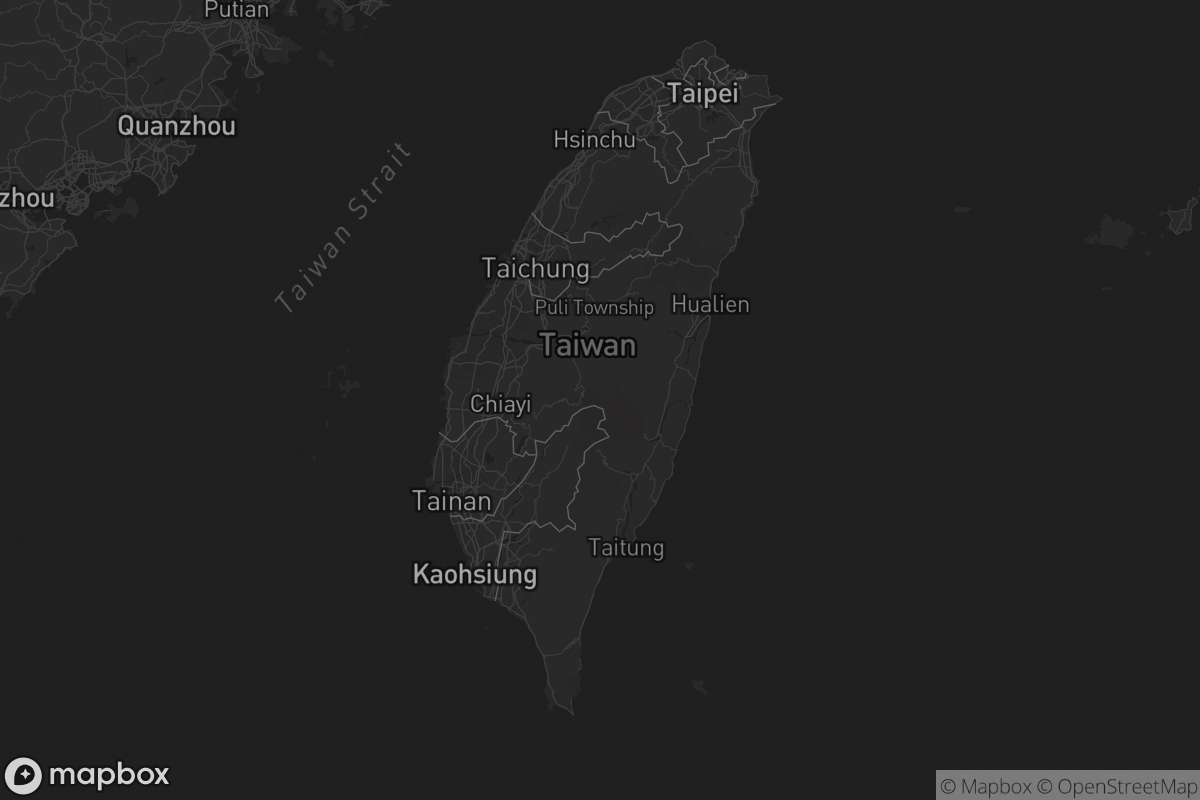
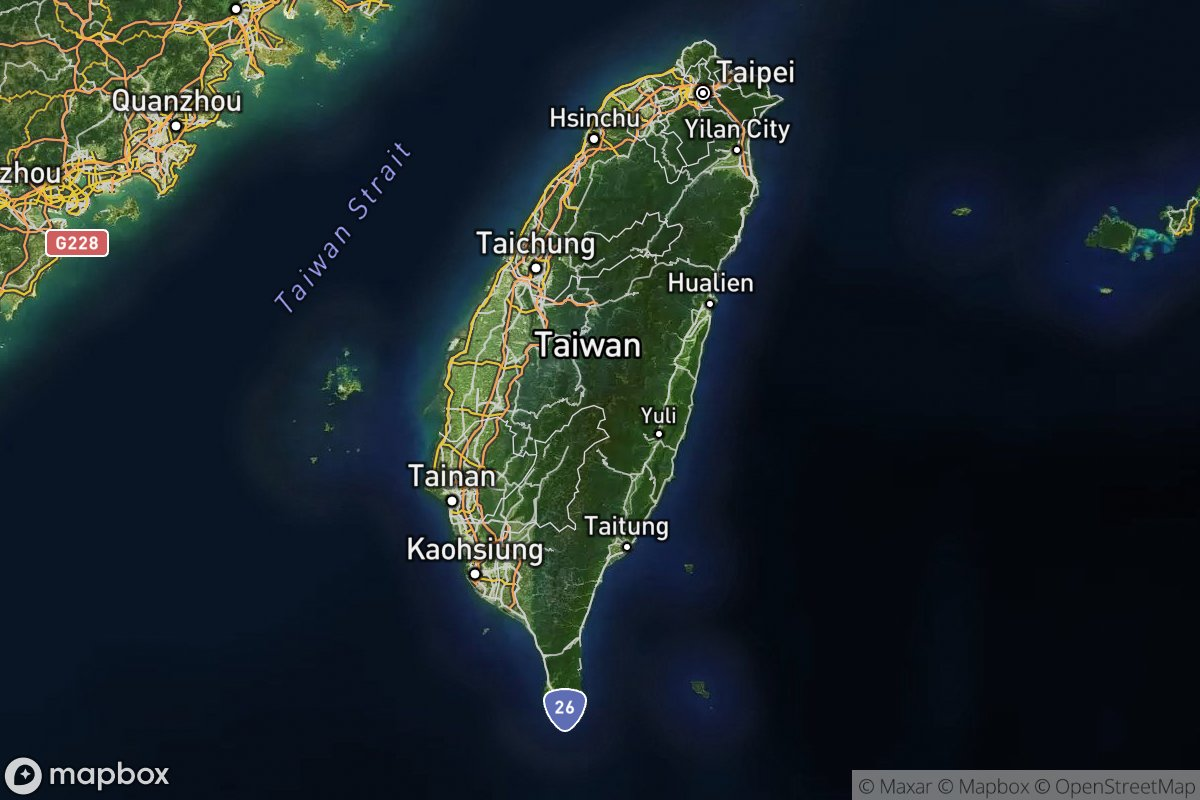
fix: ビジュアル全面修正 - タイトル・キャラ・地図・字幕・動的尺
## タイトルカード
- チャンネル名バッジ「テクノロジー投資 × 地政学」追加
- フォントサイズ 4% → 5.5% (76px → 105px)
- 暗幕オーバーレイ＋下部アクセントラインアニメーション
- typewriter: frame 0 で最低3文字を即時表示

## キャラクター
- サイズ 38% → 52% (410px → 562px) で存在感UP

## 字幕
- フォント 36px → 42px、常に白色
- 背景 rgba(0,0,0,0.82)、左ボーダー（話者色）で統一

## 地図オーバーレイ
- Mapbox スタイル dark-v11 → satellite-streets-v12（衛星写真）
- filter: brightness(1.25) contrast(1.08) で鮮明化
- border: rgba(255,255,255,0.45) + アクセントカラー glow

## 動的動画尺（Root.tsx）
- 固定 1800f → calcDuration() でスクリプトから自動計算
- 今回: 2142f (71.4秒)

## script-input.json
- 全チャプターにセリフ追加（2行 → 16行）
- visual.at をチャプター実尺に合わせ修正
- 音声 16本再生成（VOICEVOX）

diff --git a/packages/tech-geopolitics-channel/src/compositions/MainVideo.tsx b/packages/tech-geopolitics-channel/src/compositions/MainVideo.tsx
@@ -97,9 +97,9 @@ export const MainVideo: React.FC<MainVideoProps> = ({ scriptInput }) => {
     return (
       <>
         <MetanStage emotion={currentLine?.speaker === 'metan' ? currentLine.emotion : 'normal'}
-          isSpeaking={isSpeakingMetan} startFrame={0} position="left" height={height * 0.38} />
+          isSpeaking={isSpeakingMetan} startFrame={0} position="left" height={height * 0.52} />
         <ZundamonStage emotion={currentLine?.speaker === 'zundamon' ? currentLine.emotion : 'normal'}
-          isSpeaking={isSpeakingZunda} startFrame={0} position="right" height={height * 0.38} />
+          isSpeaking={isSpeakingZunda} startFrame={0} position="right" height={height * 0.52} />
       </>
     );
   };
@@ -123,17 +123,18 @@ export const MainVideo: React.FC<MainVideoProps> = ({ scriptInput }) => {
       }}>
         <div style={{
           display: 'inline-block',
-          backgroundColor: variation.subtitleStyle === 'bottom-bar'
-            ? 'rgba(0,0,0,0.75)' : 'transparent',
-          padding: '8px 24px',
-          borderRadius: 8,
-          borderLeft: variation.subtitleStyle === 'cinematic' ? `4px solid ${speakerColor}` : 'none',
+          backgroundColor: 'rgba(0,0,0,0.82)',
+          padding: '12px 32px',
+          borderRadius: 10,
+          borderLeft: `5px solid ${speakerColor}`,
         }}>
           <span style={{
-            color: theme.text,
-            fontSize: 36,
+            color: '#ffffff',
+            fontSize: 42,
             fontWeight: 700,
-            textShadow: '-2px -2px 0 #000, 2px -2px 0 #000, -2px 2px 0 #000, 2px 2px 0 #000',
+            lineHeight: 1.5,
+            letterSpacing: '0.02em',
+            textShadow: '0 2px 8px rgba(0,0,0,0.8)',
           }}>
             {currentLine.text}
           </span>
@@ -340,15 +341,48 @@ export const MainVideo: React.FC<MainVideoProps> = ({ scriptInput }) => {
       {/* 背景 */}
       <BackgroundRenderer type={variation.background} theme={theme} />
 
-      {/* タイトル（冒頭） */}
+      {/* タイトルカード（冒頭2秒） */}
       {showTitle && (
-        <TitleAnimation
-          title={scriptInput.title}
-          style={variation.titleStyle}
-          startFrame={0}
-          color={theme.text}
-          fontSize={Math.floor(width * 0.04)}
-        />
+        <>
+          {/* 暗幕オーバーレイ */}
+          <div style={{
+            position: 'absolute', inset: 0,
+            background: 'linear-gradient(180deg, rgba(0,0,0,0.55) 0%, rgba(0,0,0,0.35) 50%, rgba(0,0,0,0.65) 100%)',
+            zIndex: 15,
+          }} />
+          {/* チャンネル名バッジ */}
+          <div style={{
+            position: 'absolute', top: '28%', left: '50%',
+            transform: 'translateX(-50%)',
+            zIndex: 21,
+            backgroundColor: 'rgba(255,255,255,0.12)',
+            border: '1px solid rgba(255,255,255,0.3)',
+            borderRadius: 999,
+            padding: '6px 28px',
+          }}>
+            <span style={{ color: 'rgba(255,255,255,0.85)', fontSize: 26, fontWeight: 600, letterSpacing: '0.15em' }}>
+              テクノロジー投資 × 地政学
+            </span>
+          </div>
+          {/* メインタイトル */}
+          <TitleAnimation
+            title={scriptInput.title}
+            style={variation.titleStyle}
+            startFrame={0}
+            color="#ffffff"
+            fontSize={Math.floor(width * 0.055)}
+          />
+          {/* 下部アクセントライン */}
+          <div style={{
+            position: 'absolute', bottom: '30%', left: '50%',
+            transform: 'translateX(-50%)',
+            zIndex: 21,
+            width: interpolate(frame, [0, fps * 1.5], [0, 320], { extrapolateRight: 'clamp' }),
+            height: 3,
+            backgroundColor: theme.accent !== theme.background ? theme.accent : '#4a9eff',
+            borderRadius: 2,
+          }} />
+        </>
       )}
 
       {/* キャラクター */}

diff --git a/packages/tech-geopolitics-channel/src/Root.tsx b/packages/tech-geopolitics-channel/src/Root.tsx
@@ -1,23 +1,39 @@
 import React from "react";
 import { Composition } from "remotion";
 import { MainVideo } from "./compositions/MainVideo";
+import { ScriptInput } from "./utils/types";
 // script-input.json を直接 import → 編集するたびに自動反映
 import scriptInput from "../input/script-input.json";
 
+const FPS = 30;
+const TITLE_FRAMES = FPS * 2; // 冒頭タイトル 2秒
+const TAIL_FRAMES = FPS * 1;  // 末尾余白 1秒
+
+/** スクリプトから総フレーム数を計算 */
+function calcDuration(s: ScriptInput): number {
+  const contentFrames = s.chapters.reduce((total, ch) =>
+    total + ch.lines.reduce((t, l) => t + (l.frameCount ?? FPS * 3), 0), 0
+  );
+  return TITLE_FRAMES + contentFrames + TAIL_FRAMES;
+}
+
 export const RemotionRoot: React.FC = () => {
+  // eslint-disable-next-line @typescript-eslint/no-explicit-any
+  const typedInput = scriptInput as any as ScriptInput;
+  const duration = calcDuration(typedInput);
+
   return (
     <>
       <Composition
         id="MainVideo"
         // eslint-disable-next-line @typescript-eslint/no-explicit-any
         component={MainVideo as any}
-        durationInFrames={1800}
-        fps={30}
+        durationInFrames={duration}
+        fps={FPS}
         width={1920}
         height={1080}
         defaultProps={{
-          // eslint-disable-next-line @typescript-eslint/no-explicit-any
-          scriptInput: scriptInput as any,
+          scriptInput: typedInput,
         }}
       />
     </>

diff --git a/packages/tech-geopolitics-channel/src/components/TitleAnimation.tsx b/packages/tech-geopolitics-channel/src/components/TitleAnimation.tsx
@@ -51,11 +51,17 @@ export const TitleAnimation: React.FC<TitleAnimationProps> = ({
 
       // ---- typewriter: 1文字ずつ表示 ----
       case 'typewriter': {
-        const chars = Math.floor(interpolate(localFrame, [0, title.length * 3], [0, title.length], { extrapolateRight: 'clamp' }));
-        const displayText = title.slice(0, chars);
+        // 最初の3フレームで冒頭3文字を表示し、その後1文字ずつ追加
+        const minChars = 3;
+        const chars = Math.max(
+          minChars,
+          Math.floor(interpolate(localFrame, [0, title.length * 3], [0, title.length], { extrapolateRight: 'clamp' }))
+        );
+        const displayText = title.slice(0, Math.min(chars, title.length));
+        const showCursor = chars < title.length;
         return (
           <div style={{ opacity: 1 }}>
-            <TitleText title={displayText + (chars < title.length ? '|' : '')} color={color} fontSize={fontSize} />
+            <TitleText title={displayText + (showCursor ? '|' : '')} color={color} fontSize={fontSize} />
           </div>
         );
       }

diff --git a/packages/tech-geopolitics-channel/src/components/ImageOverlay.tsx b/packages/tech-geopolitics-channel/src/components/ImageOverlay.tsx
@@ -117,8 +117,8 @@ export const ImageOverlay: React.FC<ImageOverlayProps> = ({
         style={{
           borderRadius: 10,
           overflow: 'hidden',
-          border: `2px solid ${accentColor}55`,
-          boxShadow: '0 6px 32px rgba(0,0,0,0.55), 0 0 0 1px rgba(255,255,255,0.08)',
+          border: `2px solid rgba(255,255,255,0.45)`,
+          boxShadow: `0 8px 36px rgba(0,0,0,0.7), 0 0 0 1px ${accentColor}66, 0 0 20px ${accentColor}33`,
         }}
       >
         <Img
@@ -129,6 +129,7 @@ export const ImageOverlay: React.FC<ImageOverlayProps> = ({
             height: 'auto',
             display: 'block',
             objectFit: 'cover',
+            filter: 'brightness(1.25) contrast(1.08) saturate(1.1)',
           }}
         />
       </div>

diff --git a/packages/tech-geopolitics-channel/scripts/fetch-images.ts b/packages/tech-geopolitics-channel/scripts/fetch-images.ts
@@ -209,7 +209,7 @@ async function fetchMapImage(key: string, destPath: string): Promise<void> {
   }
 
   const { lon, lat, zoom, width, height } = coords;
-  const url = `https://api.mapbox.com/styles/v1/mapbox/dark-v11/static/${lon},${lat},${zoom}/${width}x${height}@2x?access_token=${token}`;
+  const url = `https://api.mapbox.com/styles/v1/mapbox/satellite-streets-v12/static/${lon},${lat},${zoom}/${width}x${height}@2x?access_token=${token}`;
   await downloadFile(url, destPath);
 }
 
